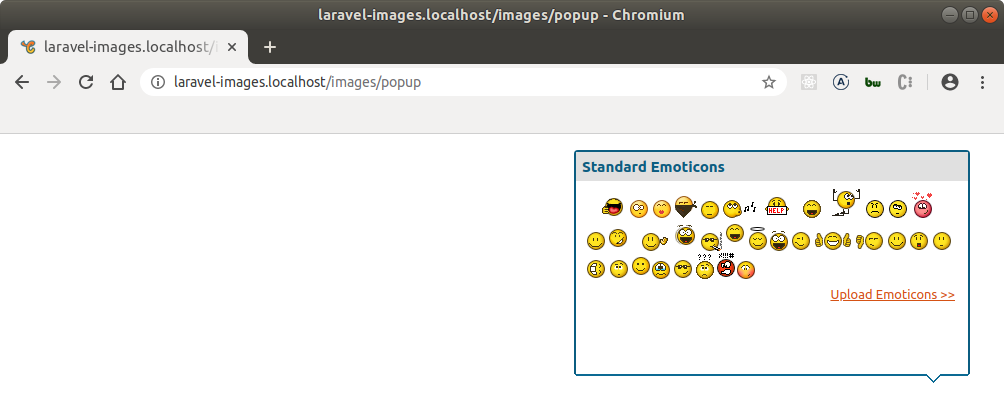
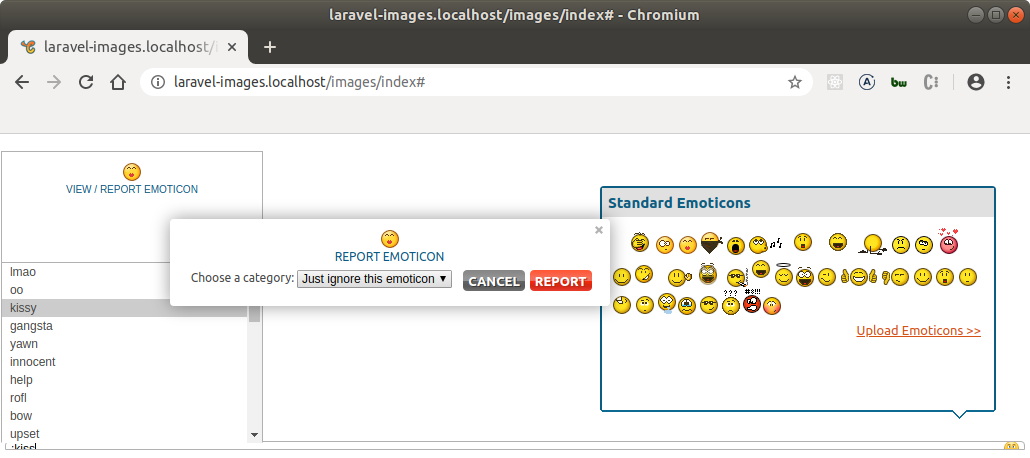
index and png

diff --git a/resources/views/images/index.blade.php b/resources/views/images/index.blade.php
@@ -5,9 +5,9 @@
 </head>
 @inject('imageService', 'App\Services\ImageService')
 <body>
-        <div class="chat-holder">
+        <div class="chat-holder" style="margin: 0 0 0 0px;"
                 <div class="chat-box">
-                <div class="chat-list" style="height: 540px; font-size: 9pt; display: block;"></div>
+                <div class="chat-list" style="height: 300px; font-size: 9pt; display: block;"></div>
                 <div style="display: block;" class="overlay_popup emote_popup">
                         <table width="100%" border="0" cellspacing="0" cellpadding="0">
                         <tbody>
@@ -35,7 +35,7 @@
                         </table>
                 </div>
                 <div id="autocomplete_prefix" style="display: none; font: 100% Arial, Helvetica, sans-serif; width: auto;"></div>
-                <div id="emoticon_autocomplete" style="background: rgb(255, 255, 255); border-width: 1px; border-style: solid; border-color: rgb(177, 177, 177) rgb(177, 177, 177) rgb(255, 255, 255); border-image: initial; cursor: pointer; float: left; font: 100% Arial, Helvetica, sans-serif; width: 260px; max-height: 290px; position: absolute; z-index: 99; top: 658.844px; left: 560.953px; display: {{$emoticonAutocompleteDisplay}};">
+                <div id="emoticon_autocomplete" style="background: rgb(255, 255, 255); border-width: 1px; border-style: solid; border-color: rgb(177, 177, 177) rgb(177, 177, 177) rgb(255, 255, 255); border-image: initial; cursor: pointer; float: left; font: 100% Arial, Helvetica, sans-serif; width: 260px; max-height: 290px; position: absolute; z-index: 99; top: 16.844px; left: 0.953px; display: {{$emoticonAutocompleteDisplay}};">
                         <div id="emoticon_preview" style="height: 110px; line-height: 105px; text-align: center; border-bottom: 1px solid rgb(177, 177, 177); display: {{$emoticonPreviewDisplay}};">
                                 <a class="facebox_link thumbnail" href="#report_emoticon" rel="facebox">
                                         <input type="hidden" name="image_url" value="{{$data->collection[$selected]->src}}">
@@ -64,7 +64,7 @@
                                 @endforeach
                         </div>
                 </div>
-                <div id="facebox" style="top: 714.75px; left: 769.5px; display: {{$faceboxDisplay}};">
+                <div id="facebox" style="top: 84.75px; left: 169.5px; display: {{$faceboxDisplay}};">
                         <div class="popup">
                                 <div class="content">
                                         <div style="text-align: center;">
@@ -97,9 +97,7 @@
                                         <table width="100%" border="0" cellspacing="0" cellpadding="0">
                                                 <tbody>
                                                         <tr>
-                                                                <td><input id="chat_input" type="text"
-                                                                                class="text" autocomplete="off"
-                                                                                maxlength="1024"></td>
+                                                                <td><input id="chat_input" type="text" class="text" autocomplete="off" maxlength="1024"></td>
                                                                 <td width="1"></td>
                                                                 <td width="20">
                                                                         <a href="#"
